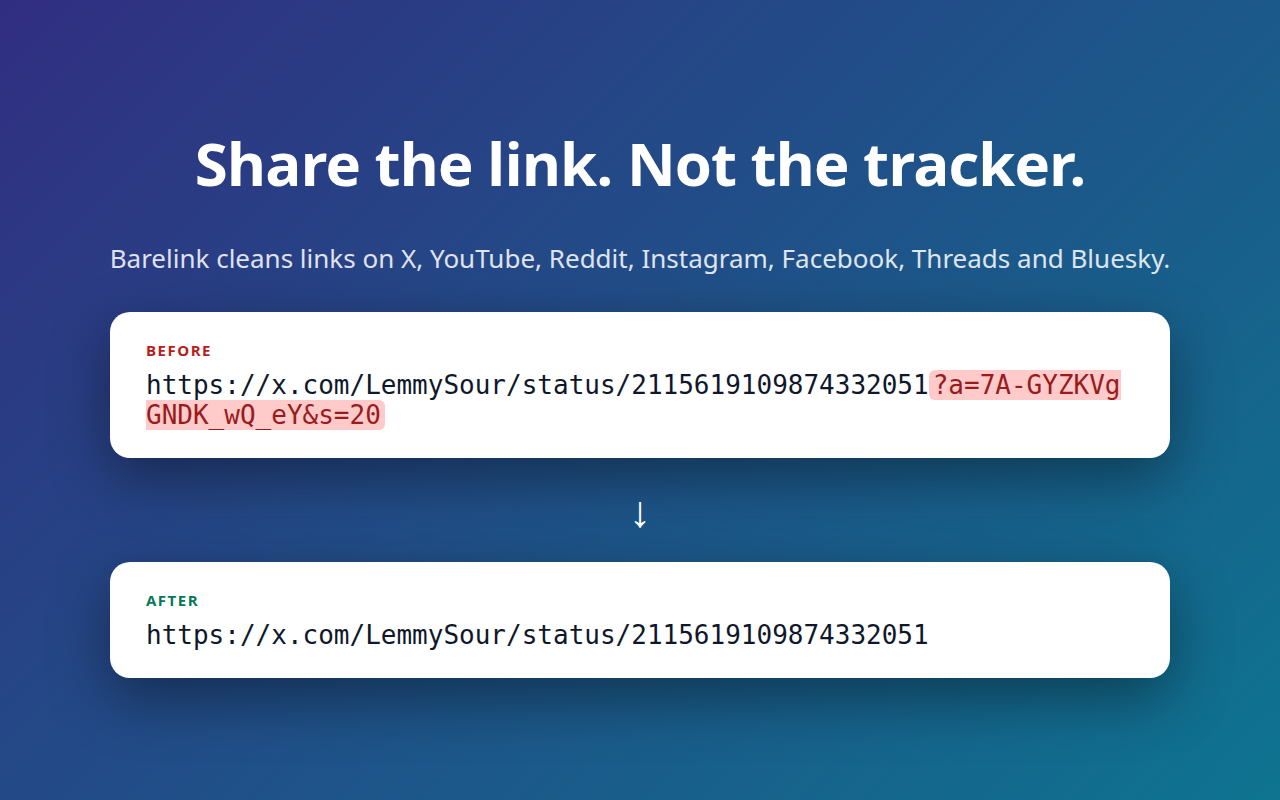
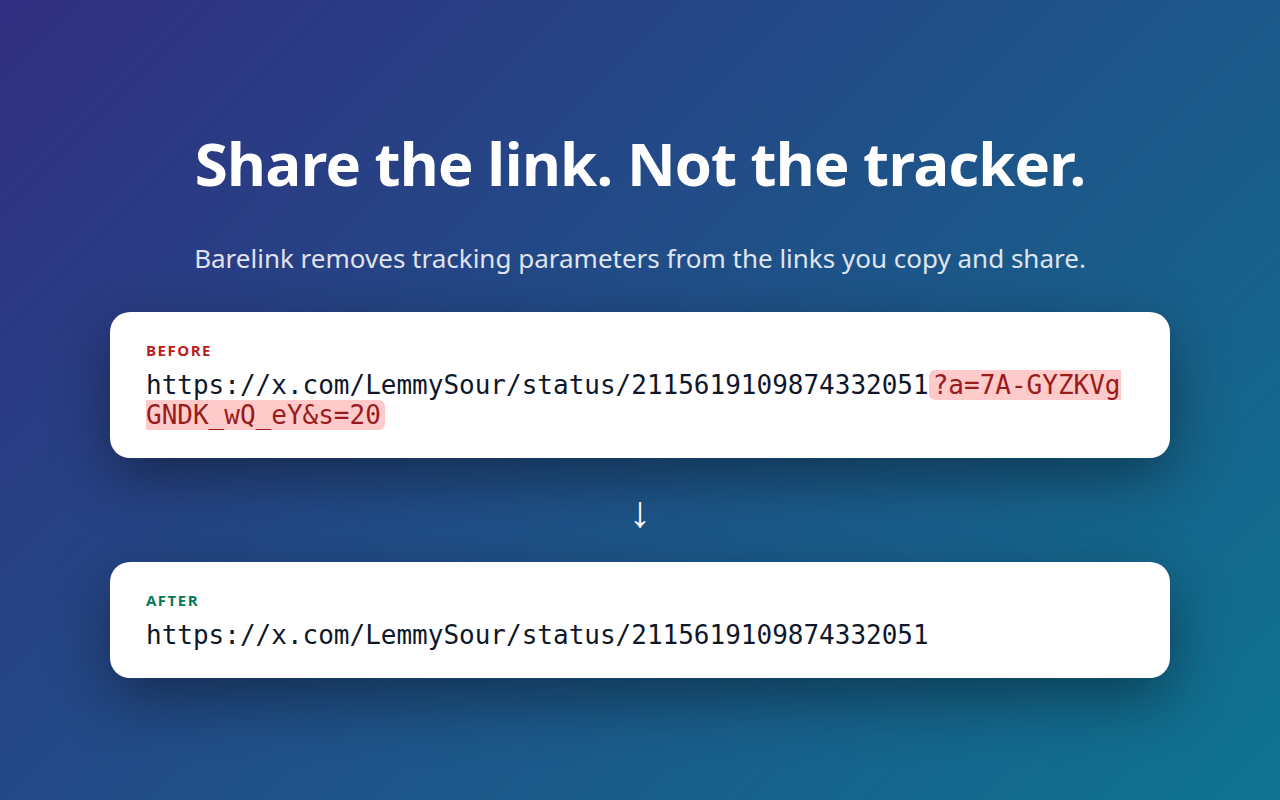
Remove platform keyword lists from store metadata; bump to v0.2.2

Changed region(s): [[0.0938, 0.3125, 0.9062, 0.3438]]

diff --git a/store/shot.html b/store/shot.html
@@ -7,7 +7,7 @@ h1{font-size:60px;margin:0;letter-spacing:-1px}p.s{font-size:26px;margin:0;opaci
 .arrow{font-size:44px;margin:-14px 0}
 </style></head><body>
 <h1>Share the link. Not the tracker.</h1>
-<p class="s">Barelink cleans links on X, YouTube, Reddit, Instagram, Facebook, Threads and Bluesky.</p>
+<p class="s">Barelink removes tracking parameters from the links you copy and share.</p>
 <div class="card bad"><div class="l">Before</div><div class="u">https://x.com/LemmySour/status/2115619109874332051<span>?a=7A-GYZKVgGNDK_wQ_eY&amp;s=20</span></div></div>
 <div class="arrow">↓</div>
 <div class="card good"><div class="l">After</div><div class="u">https://x.com/LemmySour/status/2115619109874332051</div></div>

diff --git a/store/listing.md b/store/listing.md
@@ -2,18 +2,16 @@
 
 **Name:** Barelink
 **Category:** Productivity (or Privacy & Security)
-**Summary (132 max):** Strips tracking params from links you copy, share or open on X, YouTube, Reddit, Instagram, Facebook, Threads and Bluesky.
+**Summary (132 max):** Removes tracking parameters from the links you copy, share or open on social media, so you share the bare link.
 
 ## Description
-Ever notice how a shared link grows a tail like `?s=20&t=Ab12` or `?si=...&igsh=...`? Those parameters tell the platform who shared the link and who clicked it. Barelink removes them.
+Shared links often grow a tail like `?s=20&t=Ab12` or `?si=...`. Those parameters tell the platform who shared the link and who clicked it. Barelink removes them.
 
-When you click Copy link or Share, or paste a tracked link and open it, Barelink gives you the bare URL, nothing else.
-
-Supported: X/Twitter, YouTube, Reddit, Instagram, Facebook, Threads, Bluesky.
+When you click Copy link or Share, or open a link that carries tracking parameters, Barelink gives you the plain URL and nothing else.
 
 - Works silently, no buttons or settings.
-- Keeps params that matter (YouTube timestamps, Facebook post ids).
-- No data collected, no network requests, no accounts. Open source: https://github.com/josuebrunel/barelink
+- Keeps parameters that matter, like video timestamps.
+- Collects no data and makes no network requests. Open source: https://github.com/josuebrunel/barelink
 
 ## Single purpose
 Remove tracking parameters from links on supported social platforms.
